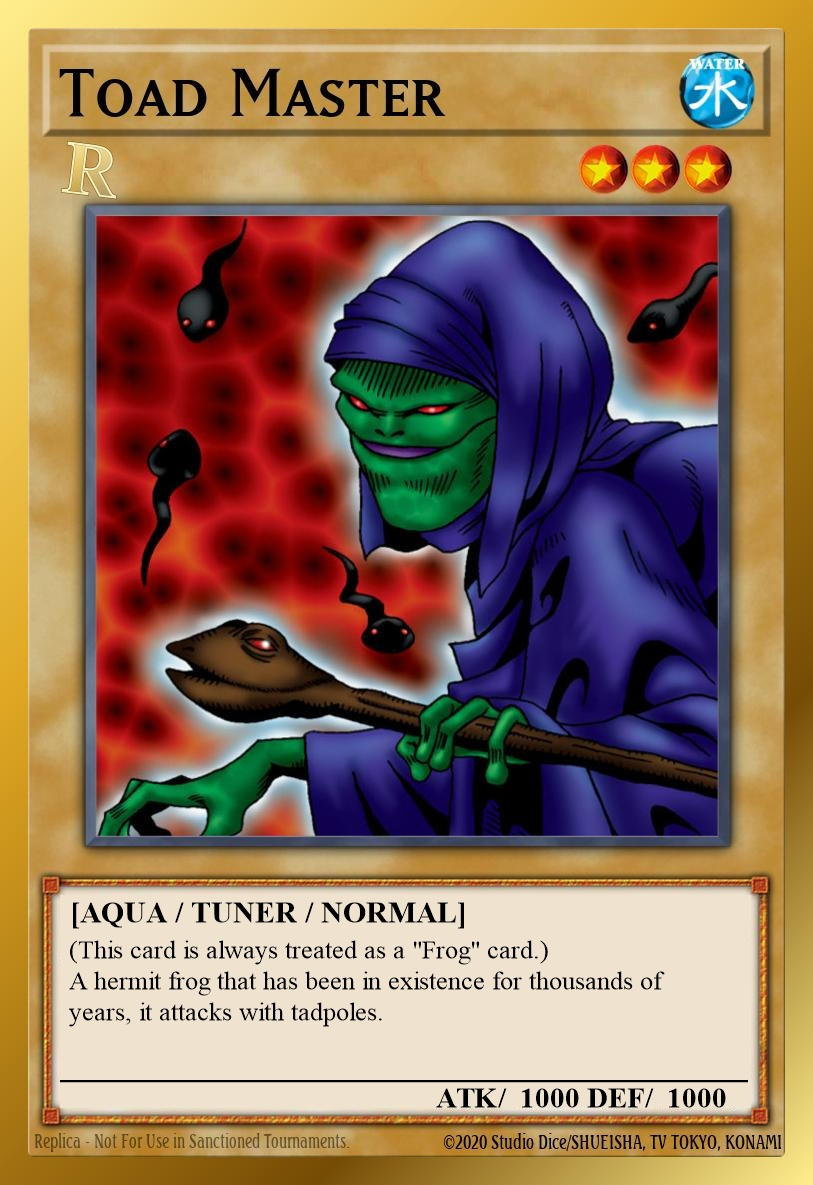
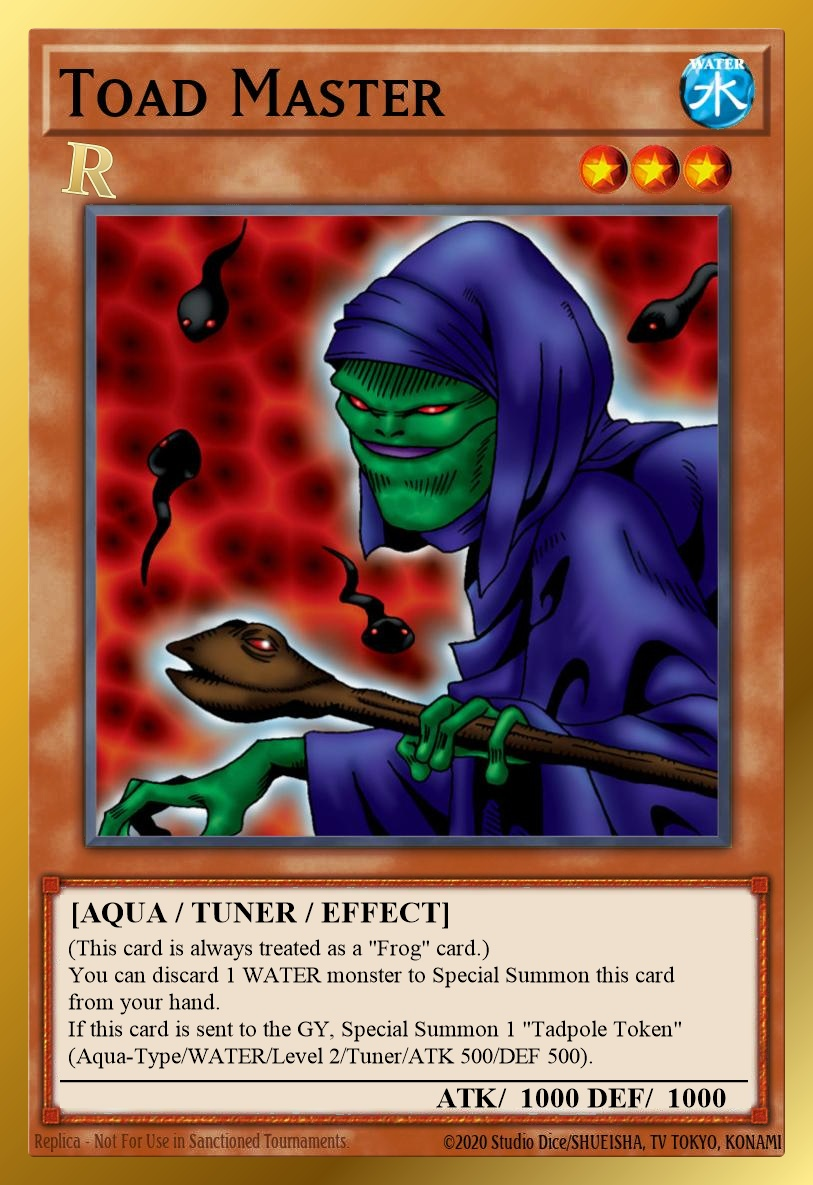
Turn Slime Toad and Toad Master into strong Frog Tuners with effects

Changed region(s): [[0.0308, 0.0, 0.984, 0.9992]]

diff --git a/Redux/scripts/build-cards-cdb.js b/Redux/scripts/build-cards-cdb.js
@@ -204,27 +204,30 @@ module.exports = function buildCardsDb({ reduxRoot }) {
       9126351,
     );
   const slimeToadTextResult = db
-    .prepare("UPDATE texts SET name = ?, desc = ? WHERE id = ?")
+    .prepare("UPDATE texts SET name = ?, desc = ?, str1 = ? WHERE id = ?")
     .run(
       "Slime Toad",
-      '(This card is always treated as a "Frog" card.)\nIts actual name is "Frog, the Jam"!\nA slime with the head of a frog, it attacks by croaking terribly.',
+      '(This card is always treated as a "Frog" card.) Its actual name is "FROG THE JAM"!\nIf this card is Normal or Special Summoned from your hand, or flipped face-up: You can target 1 "Frog" monster in your GY; equip that target to this card. This card gains level, ATK and DEF equal to the original stats of the equipped monster. You can only use this effect of "Slime Toad" once per turn.',
+      'Equip 1 "Frog" monster from your GY to this card',
       68638985,
     );
   const frogSetcodeResult = db
     .prepare("UPDATE datas SET setcode = ? WHERE id IN (?, ?)")
     .run(0x12, 68638985, 20663556);
   const slimeToadTypeResult = db
-    .prepare("UPDATE datas SET type = type | ? WHERE id = ?")
-    .run(0x1000, 68638985);
+    .prepare("UPDATE datas SET type = (type | ?) & ~? WHERE id = ?")
+    .run(0x1020, 0x10, 68638985);
   const toadMasterTextResult = db
-    .prepare("UPDATE texts SET desc = ? WHERE id = ?")
+    .prepare("UPDATE texts SET desc = ?, str1 = ?, str2 = ? WHERE id = ?")
     .run(
-      '(This card is always treated as a "Frog" card.)\nA hermit frog that has been in existence for thousands of years, it attacks with tadpoles.',
+      '(This card is always treated as a "Frog" card.)\nYou can discard 1 WATER monster to Special Summon this card from your hand.\nIf this card is sent to the GY, Special Summon 1 "Tadpole Token" (Aqua-Type/WATER/Level 2/Tuner/ATK 500/DEF 500).',
+      "Discard 1 WATER monster to Special Summon this card",
+      'Special Summon 1 "Tadpole Token"',
       62671448,
     );
   const toadMasterDataResult = db
-    .prepare("UPDATE datas SET type = type | ?, setcode = ? WHERE id = ?")
-    .run(0x1000, 0x12, 62671448);
+    .prepare("UPDATE datas SET type = (type | ?) & ~?, setcode = ? WHERE id = ?")
+    .run(0x1020, 0x10, 0x12, 62671448);
   const substitoadTextResult = db
     .prepare("UPDATE texts SET desc = ?, str1 = ? WHERE id = ?")
     .run(

diff --git a/Redux/scripts/build-lflist.js b/Redux/scripts/build-lflist.js
@@ -24,6 +24,7 @@ const limitChanges = new Map([
   ["511002992", 1], // Rescue Cat
   ["31560081", 2], // Magician of Faith
   ["511000818", 1], // Sinister Serpent
+  ["68638985", 1], // Slime Toad
   ["20663556", 3], // Substitoad
   ["93369354", 1], // Fishborg Blaster
   ["511000229", 1], // Dark Strike Fighter
@@ -123,7 +124,7 @@ const poolAdditions = [
   "3642509 3 --Elemental HERO Great Tornado",
   "1945387 3 --Elemental HERO Nova Master",
   "33574806 3 --Elemental HERO Escuridao",
-  "62671448 3 --Toad Master",
+  "62671448 1 --Toad Master",
 ];
 
 module.exports = function buildLflist({ reduxRoot }) {

diff --git a/README.md b/README.md
@@ -107,7 +107,7 @@ Redux Limits: `0` = forbidden; `1` = limited; `2` = semi-limited; `3` = unlimite
 | `3` [Butterfly Dagger - Elma](https://yugioh.fandom.com/wiki/Butterfly_Dagger_-_Elma) | ⬆ Equipped monster gains 800 ATK/DEF |
 | `3` [Destiny HERO - Disk Commander](https://yugioh.fandom.com/wiki/Destiny_HERO_-_Disk_Commander) | 🔄 Once per turn; draw 1 on any Special Summon |
 | `3` [Exchange of the Spirit](https://yugioh.fandom.com/wiki/Exchange_of_the_Spirit) | ⬇ once per duel (later format official errata) |
-| `3` [Slime Toad](https://yugioh.fandom.com/wiki/Slime_Toad) | 🔄 Tuner; always Frog; Frog, the Jam flavor |
+| `1` [Slime Toad](https://yugioh.fandom.com/wiki/Slime_Toad) | 🔄 Effect Tuner; always Frog; equips Frog from GY and gains stats |
 | `3` [Makyura the Destructor](https://yugioh.fandom.com/wiki/Makyura_the_Destructor) | ⬆ ATK/DEF: 1600/1200 to 1900/1900 |
 | `3` [Mind Master](https://yugioh.fandom.com/wiki/Mind_Master) | ⬇ Once per turn |
 | `3` [Night Assailant](https://yugioh.fandom.com/wiki/Night_Assailant) | ⬇ Once per turn |
@@ -116,7 +116,7 @@ Redux Limits: `0` = forbidden; `1` = limited; `2` = semi-limited; `3` = unlimite
 | `3` [Substitoad](https://yugioh.fandom.com/wiki/Substitoad) | 🔄 Counts as Frog; Quick Effect; summons from hand/Deck/GY; each Frog once per turn |
 | `3` [Swap Frog](https://yugioh.fandom.com/wiki/Swap_Frog) | ⬆ Revert to Master Rule 1 version |
 | `3` [The Last Warrior from Another Planet](https://yugioh.fandom.com/wiki/The_Last_Warrior_from_Another_Planet) | ⬇ No monster destruction; only blocks Special Summons |
-| `3` [Toad Master](https://yugioh.fandom.com/wiki/Toad_Master) | 🔄 Added; Tuner; always Frog |
+| `1` [Toad Master](https://yugioh.fandom.com/wiki/Toad_Master) | 🔄 Added; Effect Tuner; always Frog; discards WATER to summon; makes Tadpole Token |
 
 </details>
 
